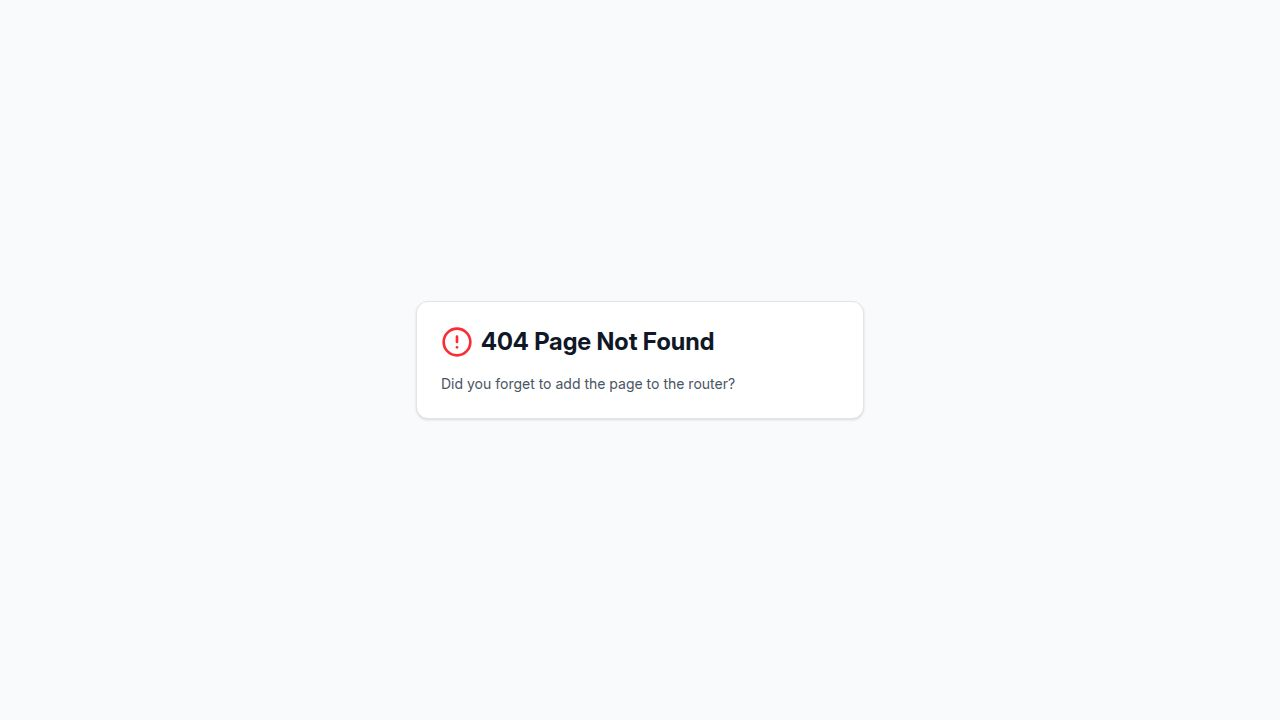
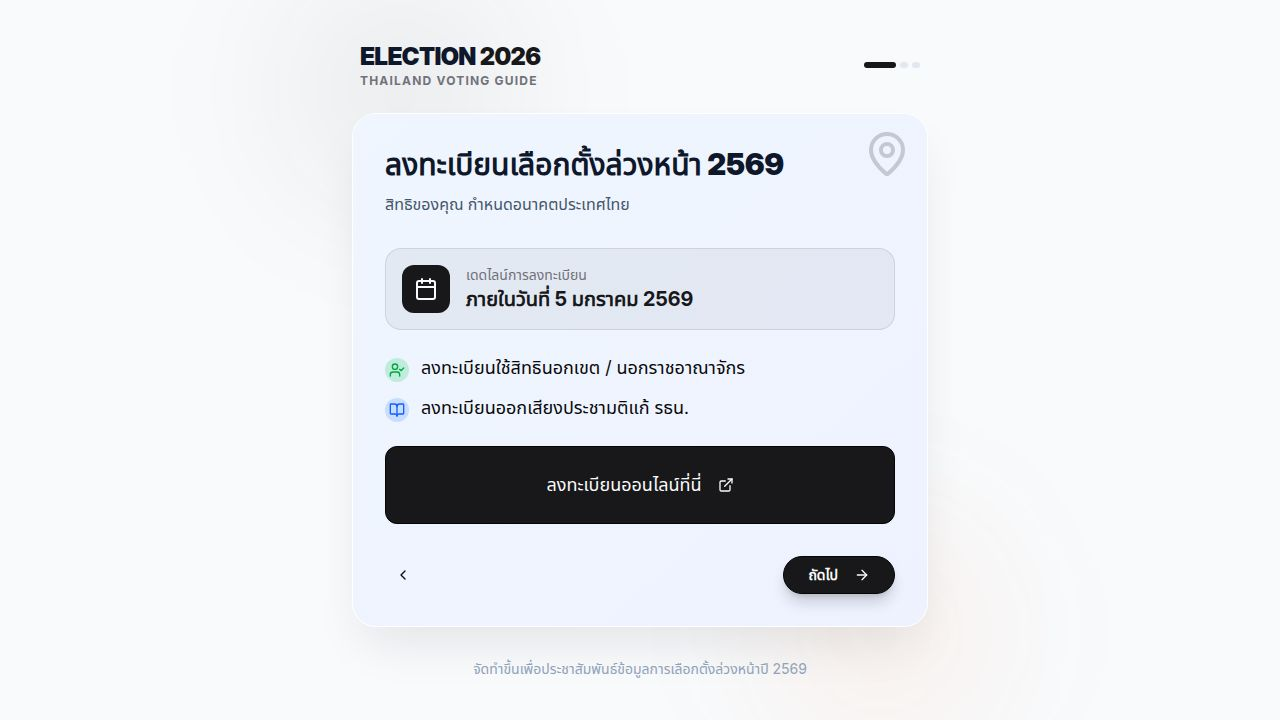
Redirect website visitors to the election guide page
Configure client-side routing to automatically redirect the root path ("/") to the "/thai-support-election69" path, ensuring users land directly on the election guide.

Replit-Commit-Author: Agent
Replit-Commit-Session-Id: 4787e7ac-1c64-4f87-bb62-f3863b9cf604
Replit-Commit-Checkpoint-Type: full_checkpoint
Replit-Commit-Event-Id: a126e476-294f-40ed-9122-c956bab59abb
Replit-Commit-Screenshot-Url: https://storage.googleapis.com/screenshot-production-us-central1/d5c7ab30-a391-49dd-bbac-48c1878e7f57/4787e7ac-1c64-4f87-bb62-f3863b9cf604/uIcVLdx
Replit-Helium-Checkpoint-Created: true

diff --git a/client/src/App.tsx b/client/src/App.tsx
@@ -1,4 +1,4 @@
-import { Switch, Route } from "wouter";
+import { Switch, Route, Redirect } from "wouter";
 import { queryClient } from "./lib/queryClient";
 import { QueryClientProvider } from "@tanstack/react-query";
 import { Toaster } from "@/components/ui/toaster";
@@ -11,8 +11,7 @@ function Router() {
     <Switch>
       <Route path="/thai-support-election69" component={ElectionGuide} />
       <Route path="/">
-        {/* Redirect to the specific path or show guide at root too */}
-        <ElectionGuide />
+        <Redirect to="/thai-support-election69" replace />
       </Route>
       {/* Fallback to 404 */}
       <Route component={NotFound} />
